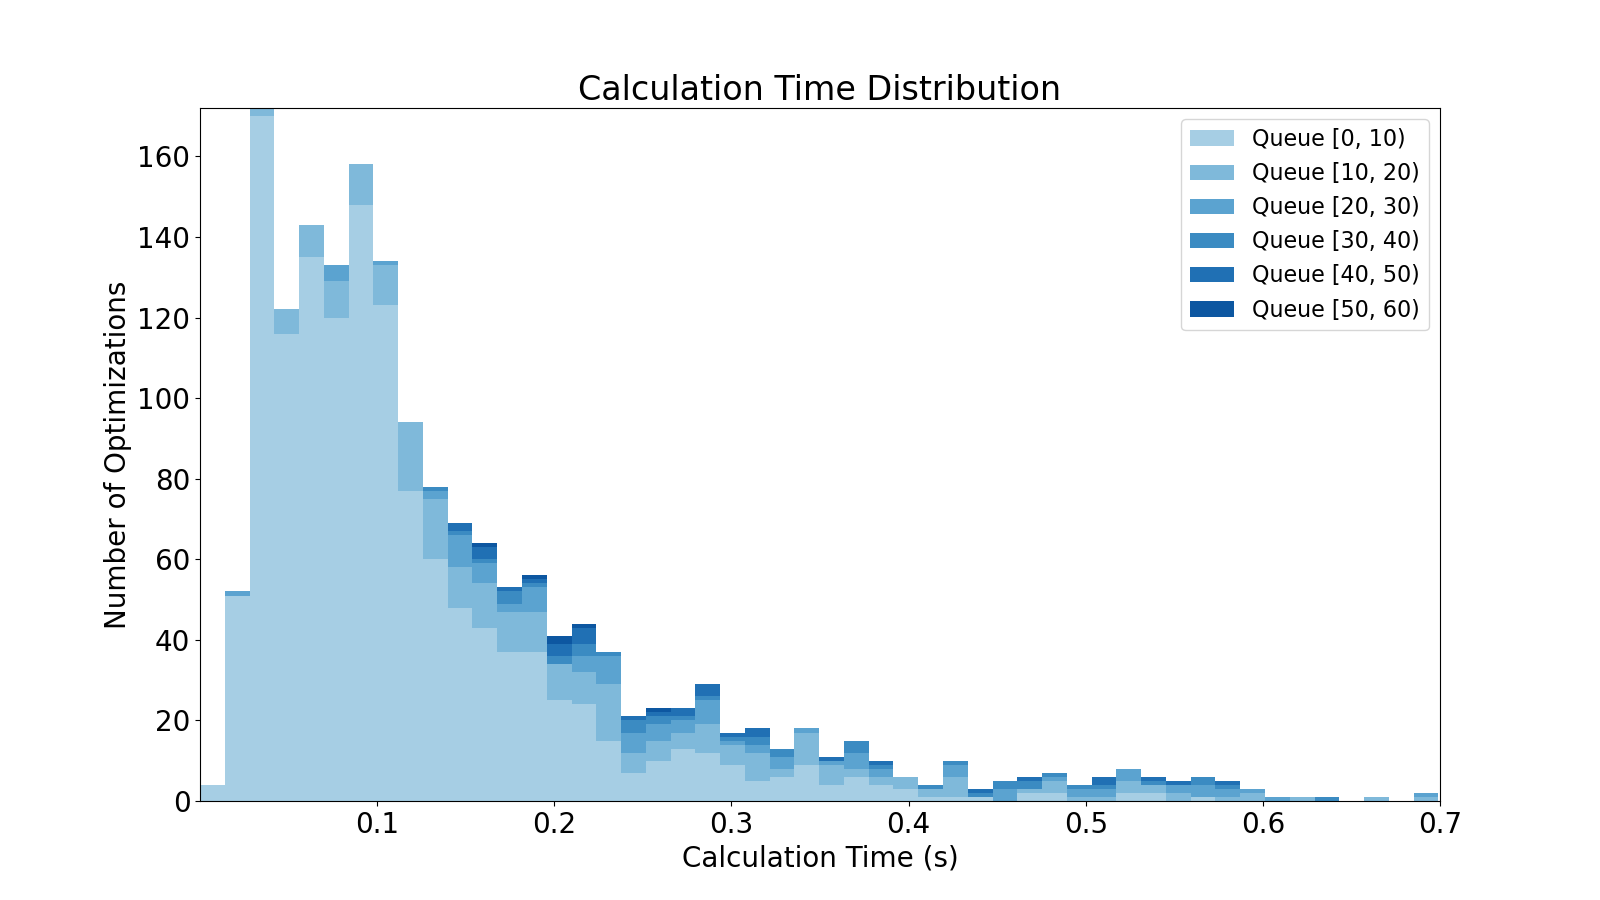
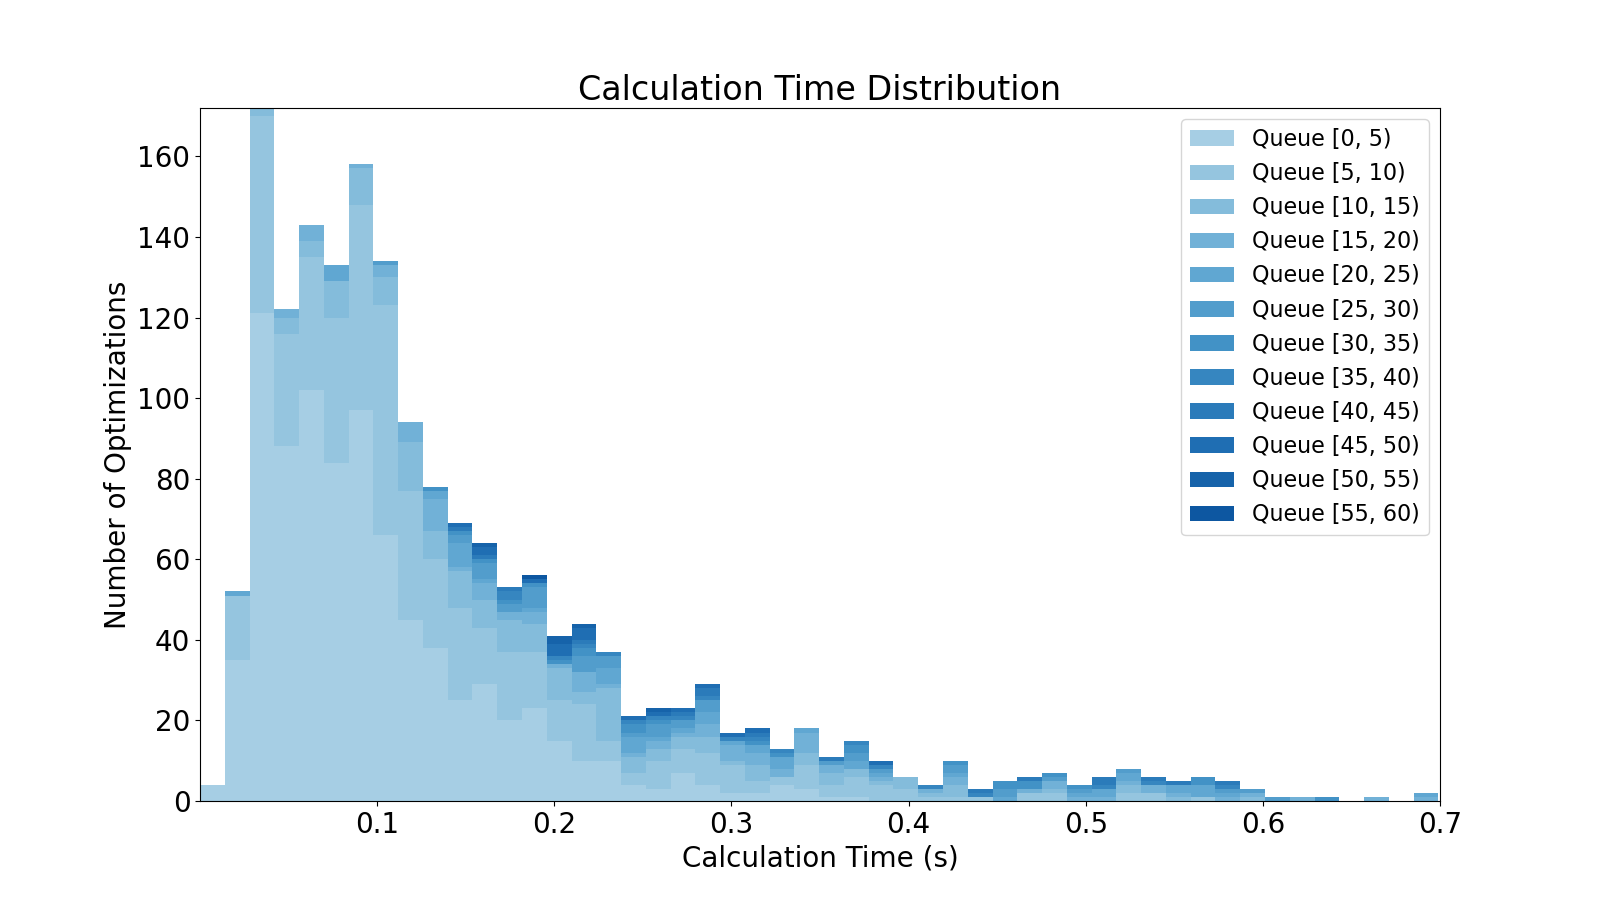
119-cofigurationの変更

Changed region(s): [[0.7188, 0.1244, 0.9062, 0.5911]]

diff --git a/misc/plot_calculation_bar.py b/misc/plot_calculation_bar.py
@@ -13,7 +13,7 @@ mpc_simulation_file_map = {
 stack_rule = 'queue' # simulation or queue
 num_bins = 50 # number of bins for histogram
 save_file_extension = 'png' # png or eps
-queue_bin_width = 10 # width of each bin for queue length histogram
+queue_bin_width = 5 # width of each bin for queue length histogram
 
 # define root_dir_path
 root_dir_path = (Path(__file__).parent / '..').resolve()
